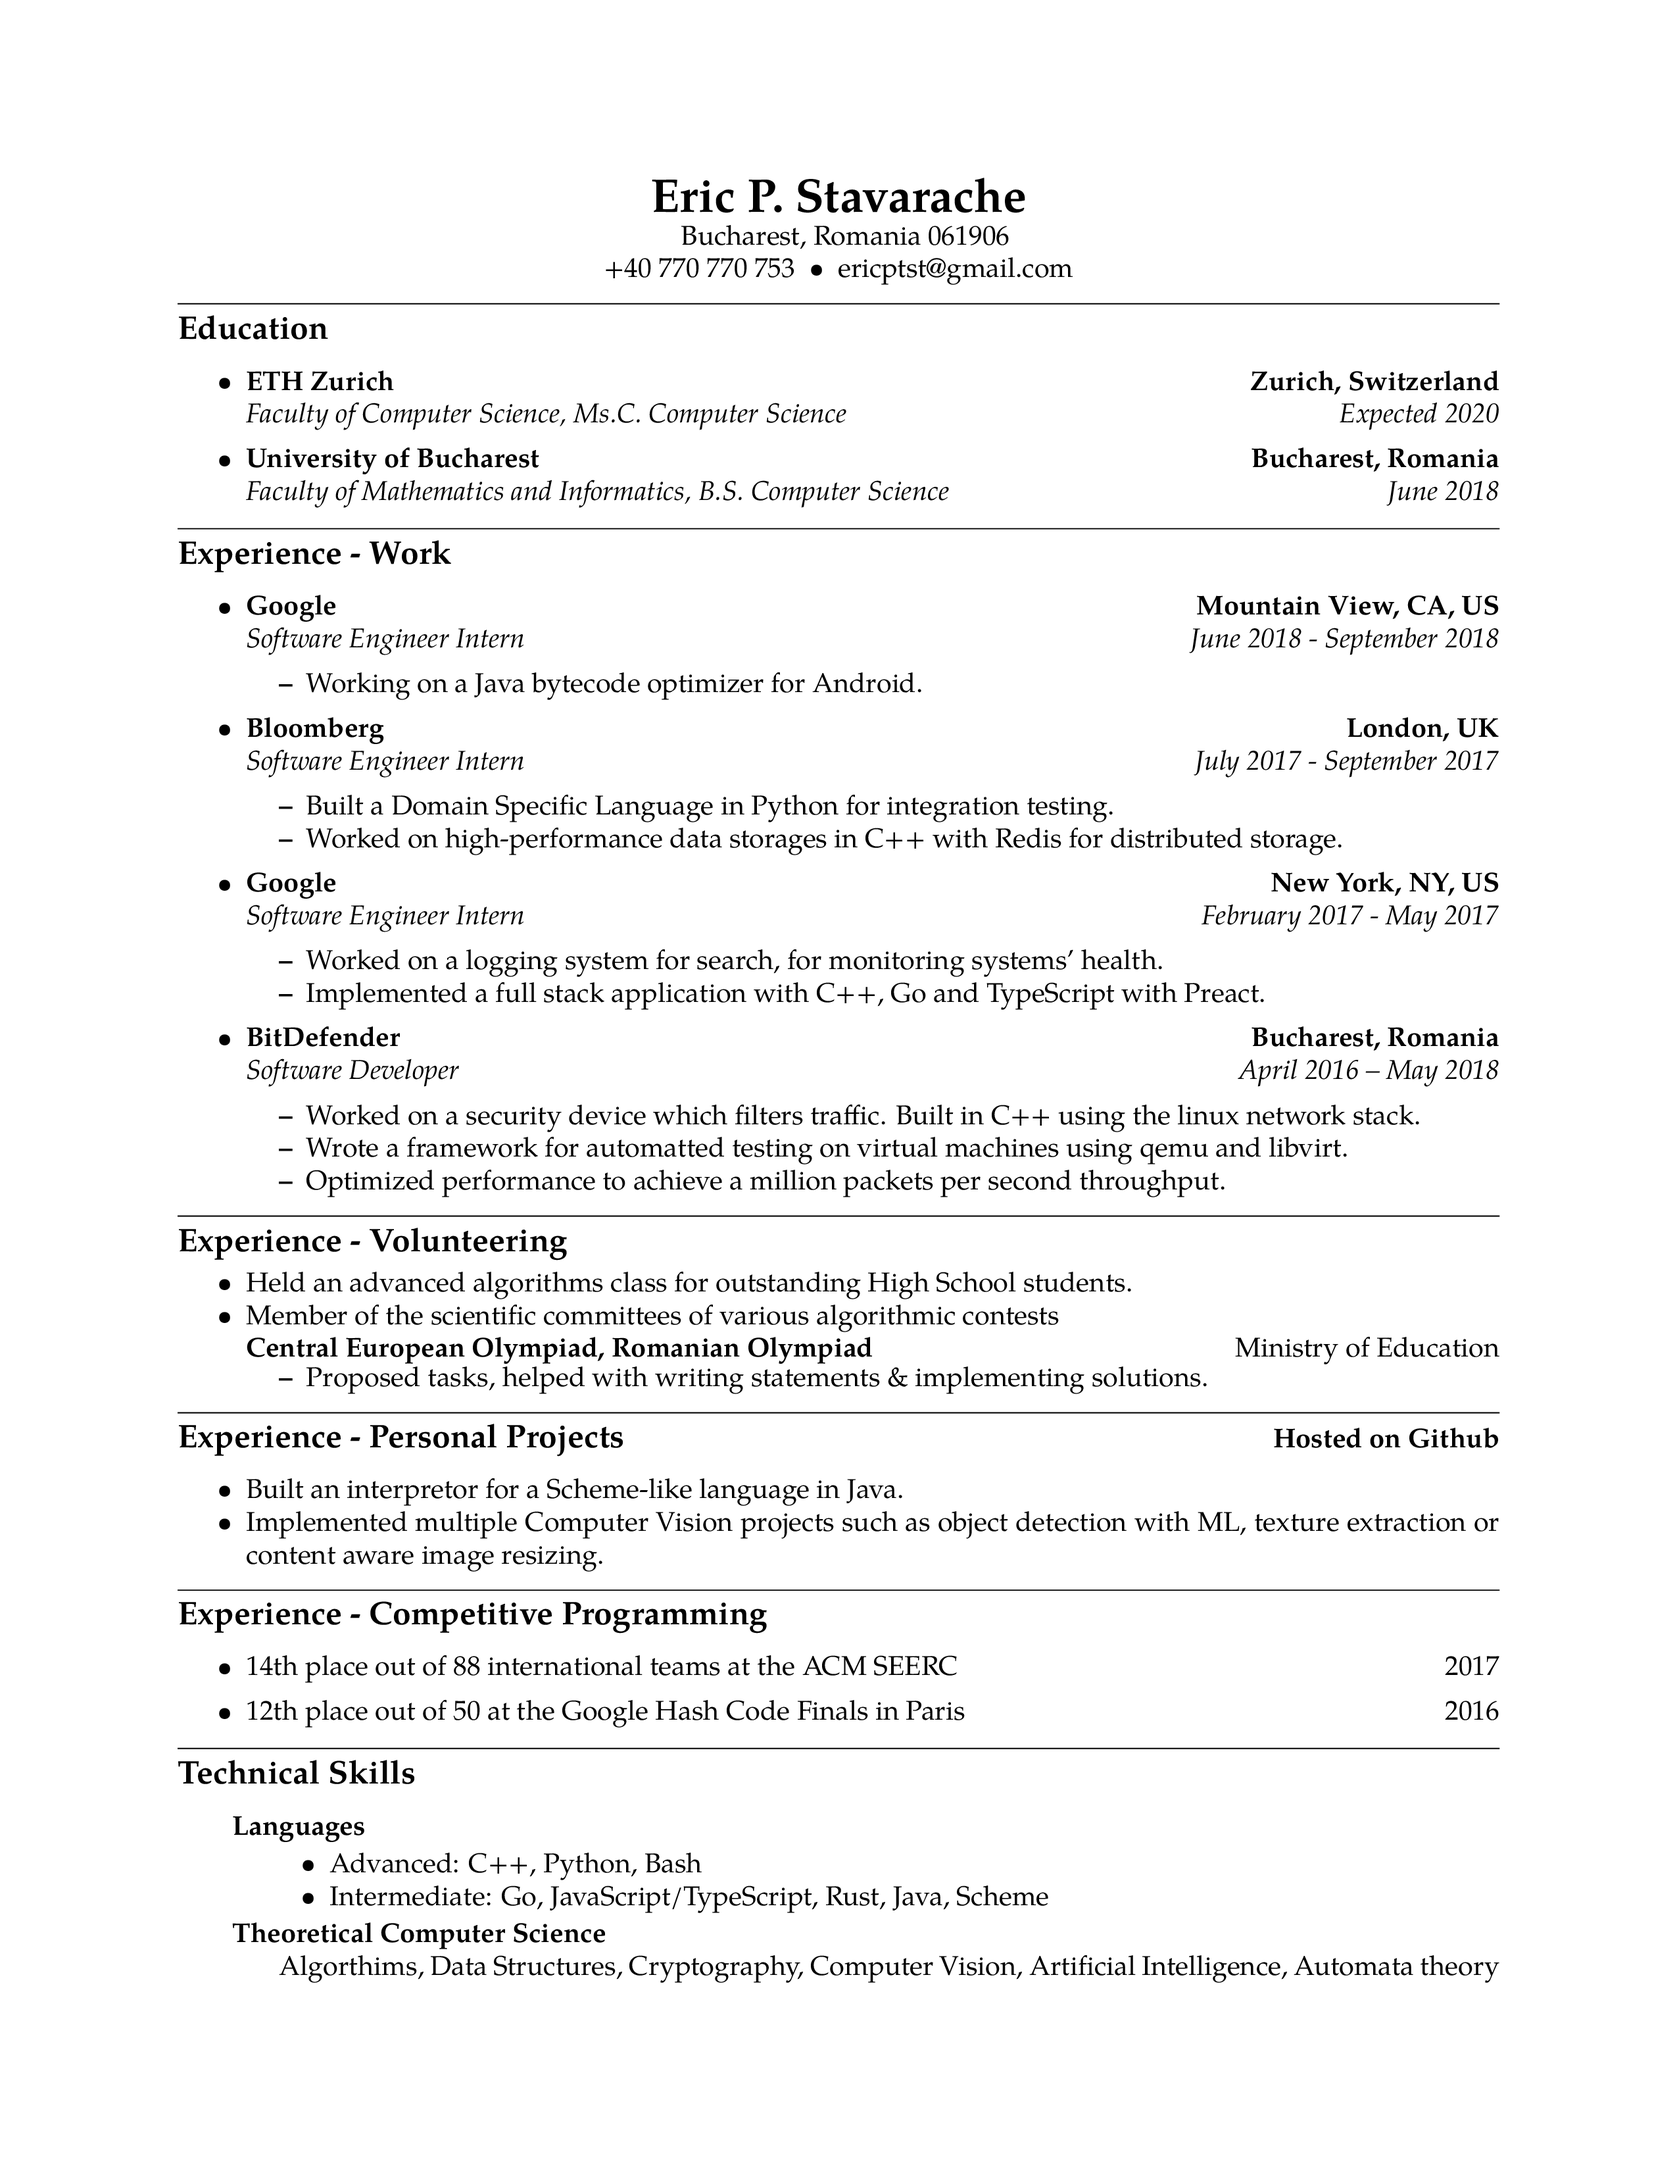
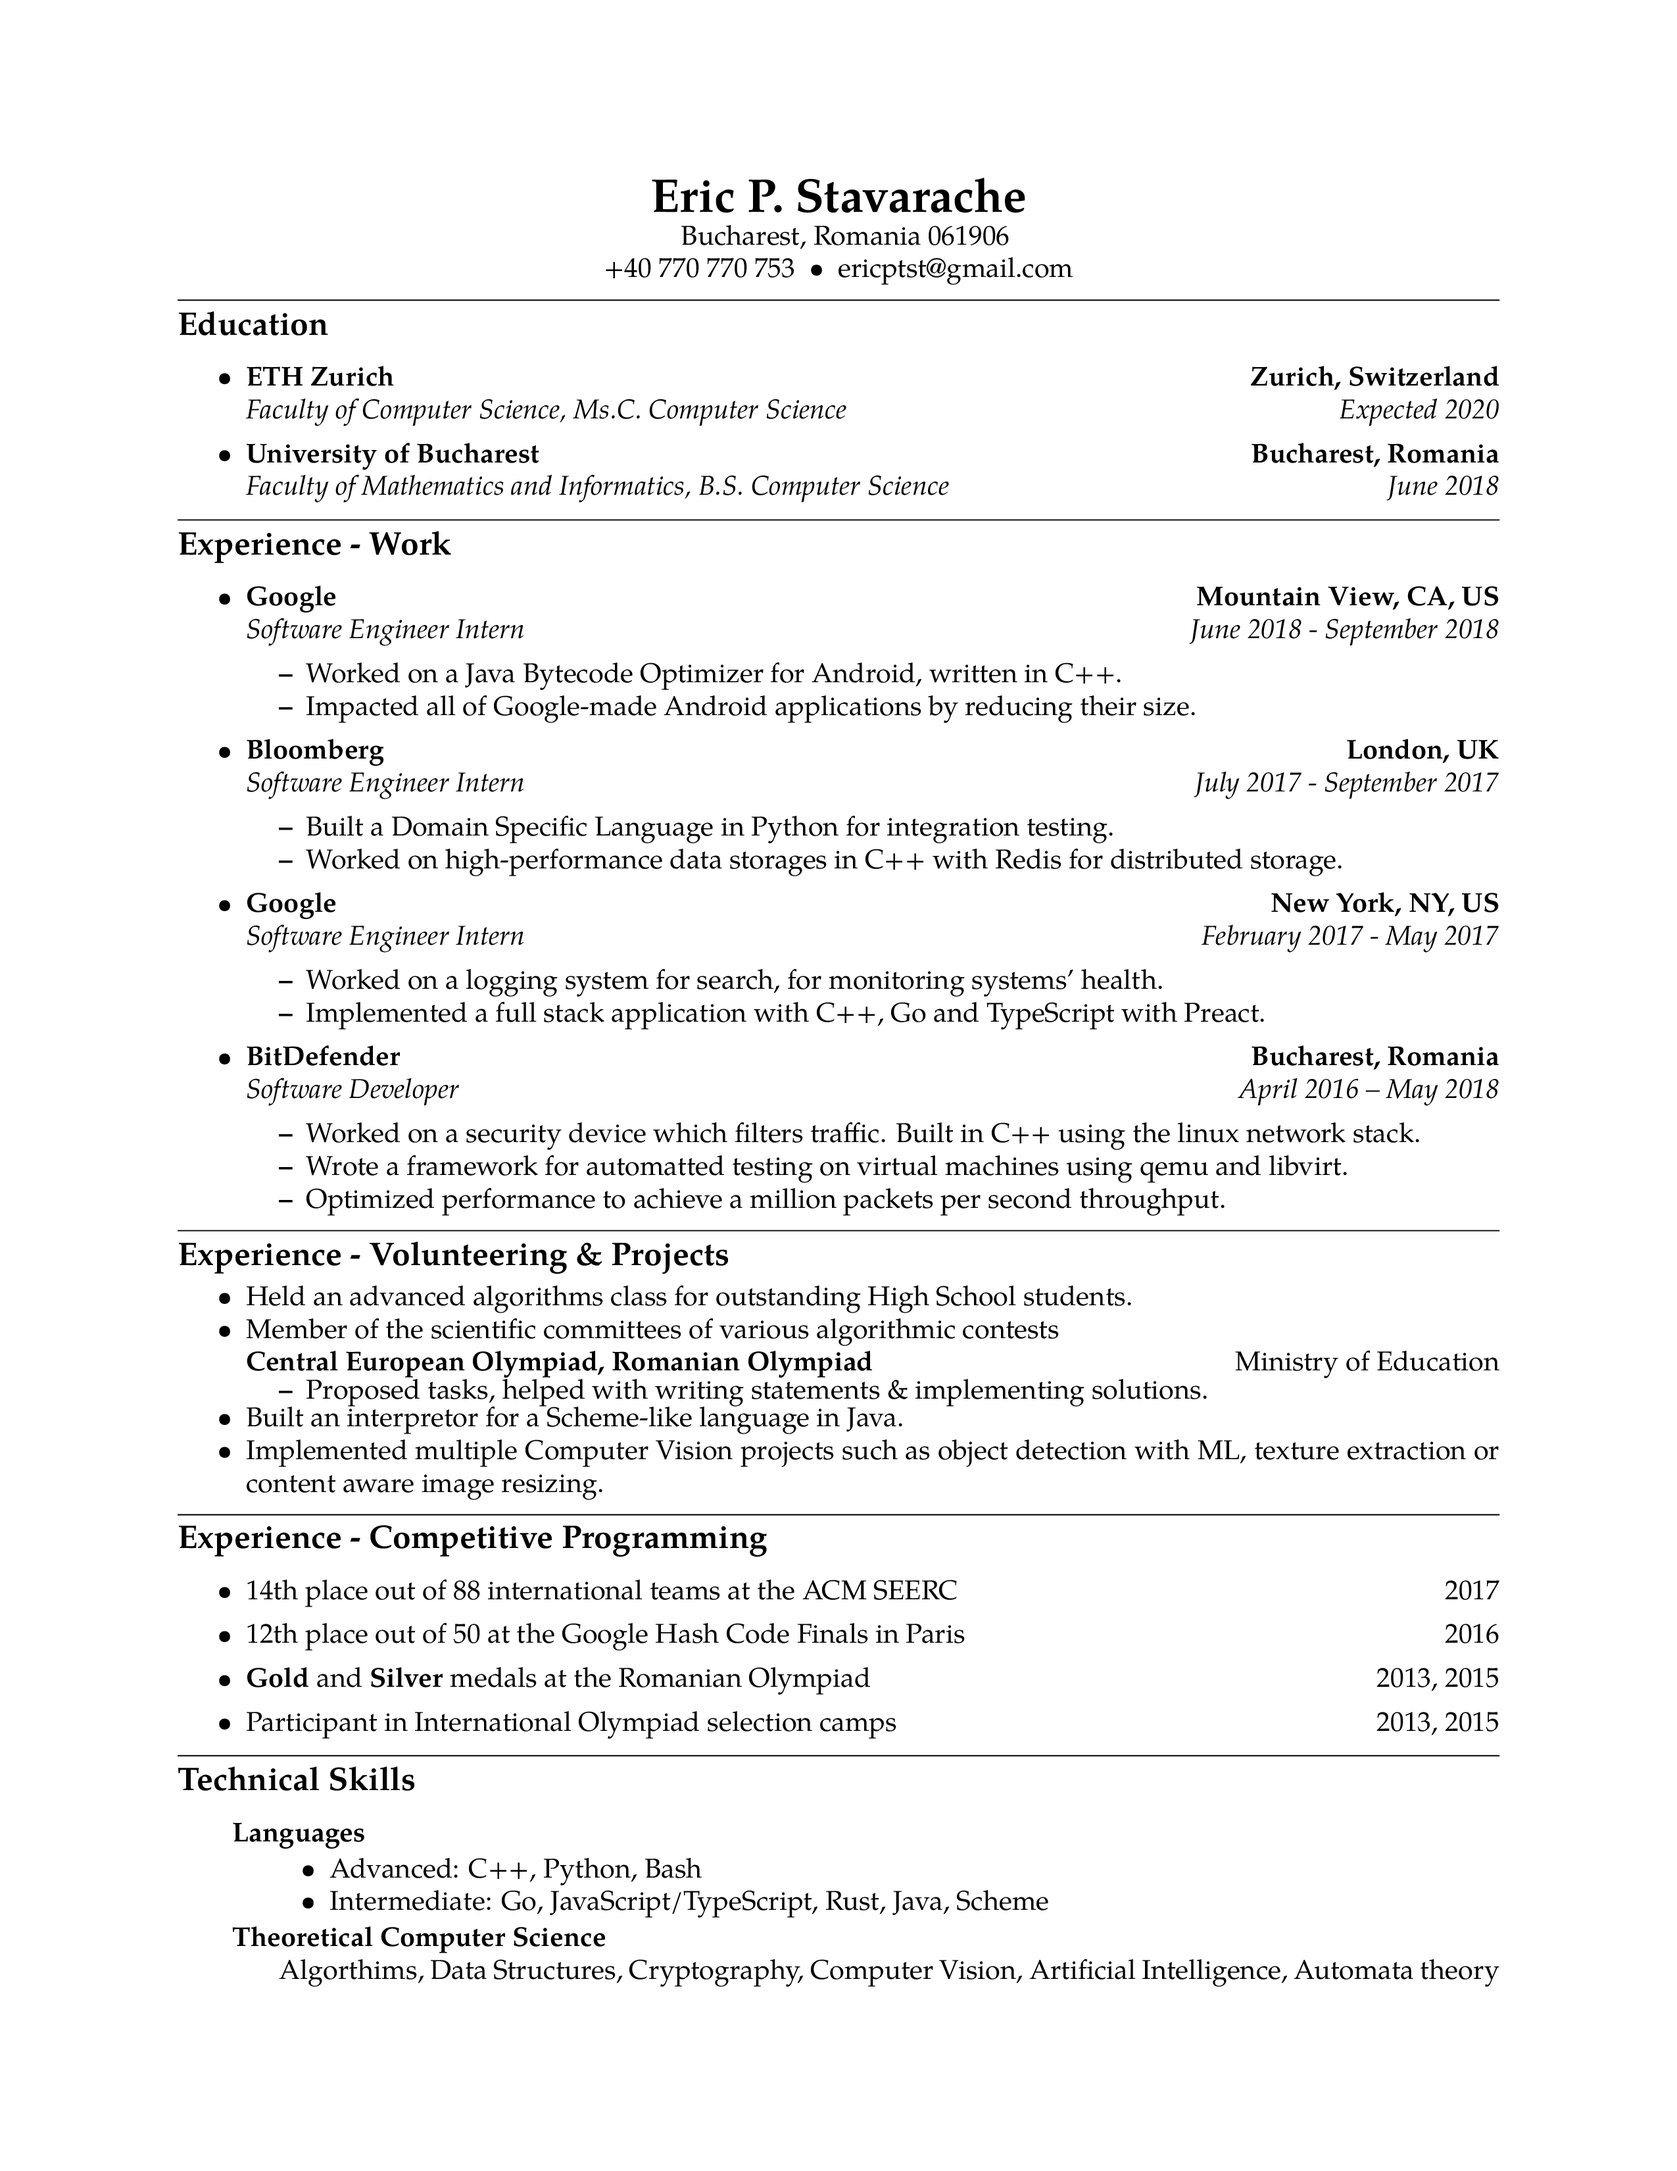
Update resume to include Google and Romanian Olympiad

diff --git a/src/resume.tex b/src/resume.tex
@@ -97,7 +97,9 @@
 		{\emph{Software Engineer Intern}}
 		{\emph{June 2018 - September 2018}}
 	\begin{itemize*}
-		\item Working on a Java bytecode optimizer for Android.
+		\item Worked on a Java Bytecode Optimizer for Android, written in C++.
+        \item Impacted all of Google-made Android applications by reducing their
+            size.
 	\end{itemize*}
 
 	\item
@@ -143,7 +145,9 @@
 
 \hrule
 \vspace{-1em}
-\subsection*{Experience - Volunteering}
+
+\subsection*{Experience - Volunteering \& \href{https://github.com/ericpts}{Projects}}
+
 \vspace{-0.4em}
 
 \begin{itemize*}
@@ -159,29 +163,15 @@
 
 \vspace{-0.6em}
 
-
 	\begin{itemize*}
 		\item Proposed tasks, helped with writing statements \& implementing solutions.
 	\end{itemize*}
 
+\vspace{-0.6em}
+
+    \item Built an interpretor for a Scheme-like language in Java.
+    \item Implemented multiple Computer Vision projects such as object detection with ML, texture extraction or content aware image resizing.
 \end{itemize*}
-
-
-\hrule
-
-\vspace{-0.3em}
-
-
-\begin{flushleft}
-\headerrow
-	{\textbf{\large{Experience - Personal Projects}}}
-	{\textbf{\href{https://github.com/ericpts}{Hosted on Github}}}
-
-\end{flushleft}
-	\begin{itemize*}
-        \item Built an interpretor for a Scheme-like language in Java.
-		\item Implemented multiple Computer Vision projects such as object detection with ML, texture extraction or content aware image resizing.
-	\end{itemize*}
 
 
 
@@ -201,6 +191,16 @@
 		\headerrow
 			{12th place out of 50 at the Google Hash Code Finals in Paris}
             {\href{https://hashcode.withgoogle.com/hashcode_2016.html}{2016}}
+
+        \item
+		\headerrow
+            {\textbf{Gold} and \textbf{Silver} medals at the Romanian Olympiad}
+			{2013, 2015}
+
+        \item
+		\headerrow
+            {Participant in International Olympiad selection camps}
+			{2013, 2015}
 
 \end{itemize}
 
